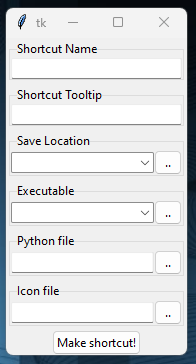
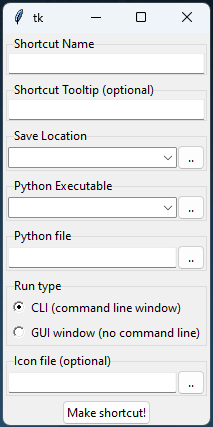
Move GUI vs CLI to radiobutton

Changed region(s): [[0.0, 0.0, 1.0, 1.0]]

diff --git a/winmakeshortcut.py b/winmakeshortcut.py
@@ -5,9 +5,12 @@ import subprocess
 import sys
 from pathlib import Path
 
-def powershell_run(cmd):
-    proc = subprocess.run(["powershell", cmd], capture_output=True, creationflags=subprocess.CREATE_NO_WINDOW)
+def sp_run(cmdlist):
+    proc = subprocess.run(cmdlist, capture_output=True, creationflags=subprocess.CREATE_NO_WINDOW)
     return proc.stdout.decode().strip(), proc.stderr.decode().strip()
+
+def powershell_run(cmd):
+    return sp_run(["powershell", cmd])
 
 class FileCreationError(Exception): pass
 
@@ -118,6 +121,34 @@ def find_pythonw():
         target = target.removesuffix('python.exe') + 'pythonw.exe'
     return target
 
+def findall_py_versions():
+    try:
+        stdout, stderr = sp_run(['py.exe', '-0'])
+        if stderr:
+            print("py.exe encountered an error:", sterr)
+            return
+        for line in stdout.splitlines():
+            versionstr = line.split()[0]
+            if '-V:' in versionstr:
+                version = versionstr.split(":")[1].strip()
+                yield version
+    except FileNotFoundError as e:
+        print("py.exe was not found")
+    except Exception as e:
+        print("an unknown error with py.exe occured")
+
+def get_py_executable(version):
+    try:
+        stdout, stderr = sp_run([f"py.exe", f"-{version}", "-c", "import sys;print(sys.executable)"])
+        if stderr:
+            print(f"Error parsing version {version}:", sterr)
+        else:
+            return stdout
+    except FileNotFoundError as e:
+        print("py.exe was not found")
+    except Exception as e:
+        print(f"Fatal error while parsing version {version}:", e)
+
 ### examples ###
 def demo1():
     # make a desktop shortcut that runs this file in a command line window
@@ -139,7 +170,7 @@ welcome to the shortcut creator
 1) make desktop shortcut to this program in cli
 2) start gui
 3) make desktop shortcut to /r/learnpython
-3) exit
+4) exit
 """
 def demomain():
     if len(sys.argv) > 1:
